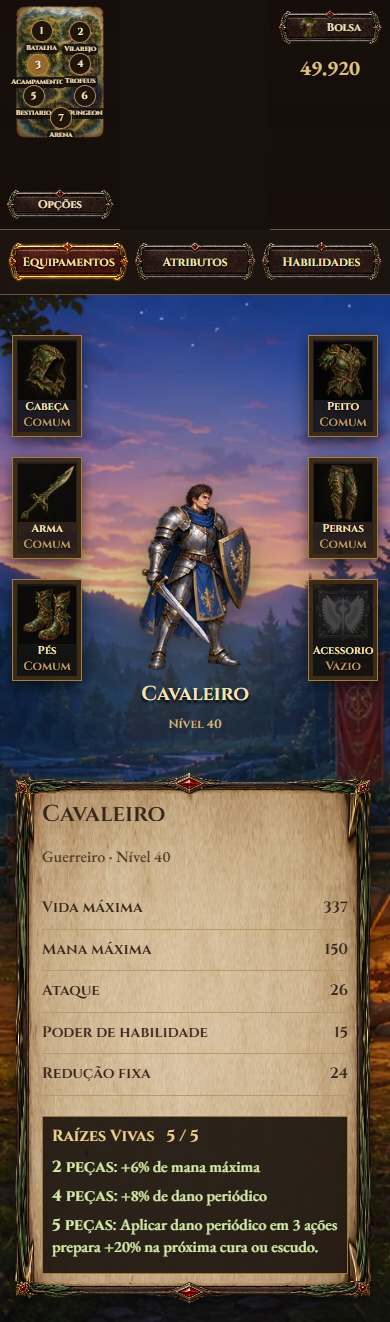
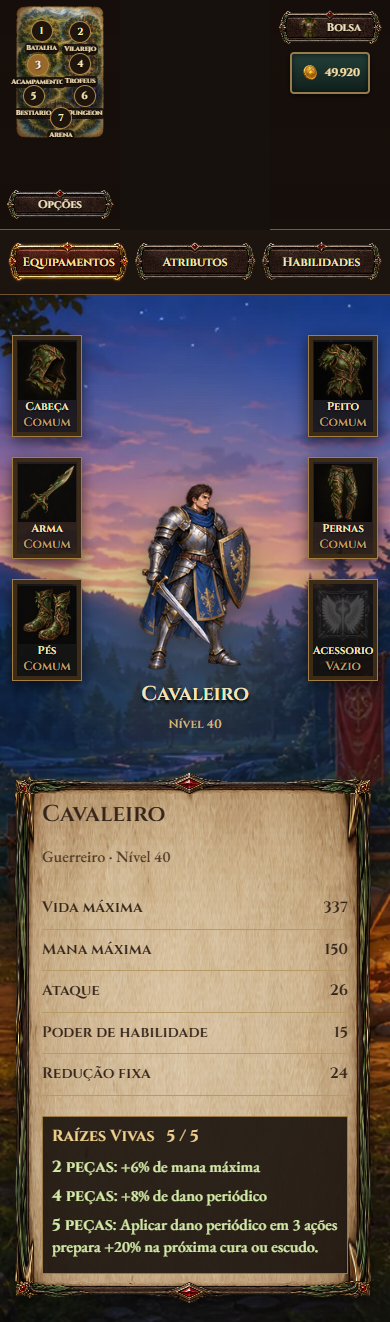
Dá acabamento rústico à pousada e corrige avisos do mapa e saldo

Changed region(s): [[0.7385, 0.031, 0.9538, 0.062]]

diff --git a/assets/js/systems/campaign-hud.js b/assets/js/systems/campaign-hud.js
@@ -14,7 +14,7 @@ const CampaignHUD = (() => {
   const locked = () => isProcessingTurn || isDead || player.hp <= 0;
   const progressionPending = () => levelUpPoints>0||Object.values(allocation).some(value=>Number(value)>0)||needsSubclassChoice();
   const pageTitle = () => currentMode === 'battle' ? currentRegion : currentMode === 'camp' ? 'Personagem' : currentMode === 'village' ? ({artisan:'Oficina',forge:'Oficina',inn:'Pousada',alchemist:'Alquimista',mercenary:'Mercenário'}[villageTab]) : ({bestiary:'Bestiário',trophies:'Sala de troféus',arena:'Portal da arena',dungeon:'Portal da dungeon'}[currentMode] || 'Aventura');
-  const money = () => `<span class="rpg-coins"><img class="rpg-coin-icon" src="assets/visual/hud/icon-coin.webp" alt=""> ${player.coins.toLocaleString('pt-BR')} <small>moedas</small></span>`;
+  const money = () => `<span class="rpg-coins" tabindex="0" aria-label="${player.coins.toLocaleString('pt-BR')} moedas" data-hud-description="${player.coins.toLocaleString('pt-BR')} moedas"><img class="rpg-coin-icon" src="assets/visual/hud/icon-coin.webp" alt=""><span>${player.coins.toLocaleString('pt-BR')}</span></span>`;
   const itemArt = item => {
     if(item?.type !== 'equipment') return getInventoryItemSymbol(item);
     if(item.slot==='accessory')return getInventoryItemSymbol(item);
@@ -120,8 +120,8 @@ const CampaignHUD = (() => {
   function renderVillage(){
     if(villageTab==='artisan'||villageTab==='forge') return serviceNav()+renderWorkshop();
     if(villageTab==='mercenary') return serviceNav()+renderMercenary();
-    if(villageTab==='alchemist') return serviceNav()+`<section class="rpg-village-interior rpg-alchemy"><div class="rpg-service-copy"><h2>Poções e preparados</h2><p>Prepare seus consumíveis antes de voltar à trilha.</p></div><div class="rpg-shop">${renderActionFeedback('village')}${renderAlchemistPanel()}</div></section>`;
-    return serviceNav()+`<section class="rpg-village-interior"><div class="rpg-service-copy"><h2>Descanse, aventureiro</h2><p>Recupere suas forças antes da próxima expedição.</p></div><div class="rpg-inn rpg-paper">${renderActionFeedback('village')}<h2><img class="rpg-inn-title" src="assets/visual/hud/inn-title.webp" alt="Pousada"></h2>${innMeter("Vida",player.hp,getCurrentCaps().maxHp,"hp")}${button(`Recuperar vida · ${getHealCost()} moedas`,'heal','',player.coins<getHealCost()?'disabled':'')}${innMeter("Mana",player.mp,getCurrentCaps().maxMp,"mp")}${button(`Recuperar mana · ${getManaHealCost()} moedas`,'mana','',player.coins<getManaHealCost()?'disabled':'')}</div></section>`;
+    if(villageTab==='alchemist') return serviceNav()+`<section class="rpg-village-interior rpg-alchemy"><div class="rpg-service-copy"><h2>Poções e preparados</h2><p>Prepare seus consumíveis antes de voltar à trilha.</p></div><div class="rpg-shop">${renderActionFeedback('village')}${renderAlchemistPanel({compact:true})}</div></section>`;
+    return serviceNav()+`<section class="rpg-village-interior"><div class="rpg-service-copy"><h2>Descanse, aventureiro</h2><p>Recupere suas forças antes da próxima expedição.</p></div><div class="rpg-inn rpg-paper"><h2><img class="rpg-inn-title" src="assets/visual/hud/inn-title-rustic.webp" alt="Pousada"></h2>${innMeter("Vida",player.hp,getCurrentCaps().maxHp,"hp")}${button(`Recuperar vida · ${getHealCost()} moedas`,'heal','',player.coins<getHealCost()?'disabled':'')}${innMeter("Mana",player.mp,getCurrentCaps().maxMp,"mp")}${button(`Recuperar mana · ${getManaHealCost()} moedas`,'mana','',player.coins<getManaHealCost()?'disabled':'')}</div></section>`;
   }
   function currentCraft(){
     const unlocked=EquipmentSystem.unlockedRegions(player);

diff --git a/assets/styles/campaign-hud.css b/assets/styles/campaign-hud.css
@@ -400,5 +400,18 @@ body.rpg-campaign::before{content:"";position:fixed;inset:0;background:#080a08db
 .rpg-campaign #campaignHud[data-mode=village]:is([data-service=artisan],[data-service=forge]) #rpgMain{background:#1b100b url('../visual/hud/forge.webp') center/cover fixed;min-height:100dvh}
 .rpg-campaign #campaignHud .rpg-workshop{background:none;min-height:690px}
 .rpg-campaign #campaignHud .rpg-anvil>img{flex:0 0 280px;width:100%;height:280px;max-width:280px;object-fit:contain}
-.rpg-campaign .region-map-boss-btn[data-tooltip]:hover::after{min-width:0;width:180px;font-size:13px}
 #rpgActionTooltip,#rpgActionTooltip *{font-family:'RPG Leitura',Georgia,serif!important;font-weight:550!important;font-variant:normal;text-transform:none!important;letter-spacing:0}
+.rpg-campaign #campaignHud #rpgAccount .rpg-coins{display:flex;align-items:center;justify-content:center;gap:5px;box-sizing:border-box;max-width:190px;padding:9px 8px;background:linear-gradient(#244039,#101f1b);border:2px solid #967b4d;border-radius:4px;box-shadow:inset 0 1px 6px #0009,0 2px 5px #0008;color:#ffe2a6;font-size:clamp(11px,1.3vw,20px);cursor:help;outline-offset:3px}
+.rpg-campaign #campaignHud .rpg-coins img{margin:0!important;flex-shrink:0}
+.rpg-campaign .region-map-boss-btn[data-tooltip]:is(:hover,:focus-visible)::after,.rpg-campaign .region-map-boss-btn[data-tooltip]:is(:hover,:focus-visible)::before{display:none!important;content:none!important}
+.rpg-campaign .rpg-inn-meter>i{background:repeating-linear-gradient(90deg,#0001 0 2px,transparent 2px 9px),linear-gradient(#a74637,#67251e);box-shadow:inset 0 2px 5px #0009,inset 0 -2px 3px #0007}
+.rpg-campaign .rpg-inn-meter.mp>i{background:repeating-linear-gradient(90deg,#0001 0 2px,transparent 2px 9px),linear-gradient(#467c91,#254656)}
+.rpg-campaign .rpg-inn-meter>span{color:#f3e2bf;font-size:17px;text-shadow:0 2px 3px #000}
+#rpgActionTooltip[data-kind=boss]{width:180px;font-size:16px}
+#rpgActionTooltip[data-kind=balance]{max-width:180px}
+.rpg-campaign .rpg-inn-meter{height:40px;padding:3px;border:3px ridge #947348;border-image:none;border-radius:7px;outline:1px solid #37271a;background:repeating-linear-gradient(5deg,#342217 0 3px,#493222 4px 6px,#2b1d13 7px 10px);box-shadow:0 0 0 1px #b29565,0 3px 5px #0008,inset 0 1px 3px #000;overflow:hidden}
+.rpg-campaign .rpg-inn-meter>i{border-radius:2px}
+.rpg-campaign .rpg-inn-meter>span{inset:0}
+.rpg-campaign .rpg-inn-meter::before,.rpg-campaign .rpg-inn-meter::after{content:'';position:absolute;z-index:2;top:50%;transform:translateY(-50%);width:5px;height:5px;border-radius:50%;border:1px solid #b39a6a;background:radial-gradient(at 30% 25%,#b2a17b,#292219 75%);box-shadow:0 1px 2px #000;pointer-events:none}
+.rpg-campaign .rpg-inn-meter::before{left:0}.rpg-campaign .rpg-inn-meter::after{right:0}
+.rpg-campaign .rpg-inn>h2{width:100%}

diff --git a/assets/js/game.js b/assets/js/game.js
@@ -4359,8 +4359,8 @@ function getEnemyStatusEffects(targetEnemy){
   return effects;
 }
 
-function renderAlchemistPanel(){
-  return `<div class="inventory-item"><div class="panel-header"><strong>Alquimista</strong><span class="coin-badge">${player.coins} moedas</span></div><span class="lock-note">Misturas raras e reforcos temporarios para a aventura.</span><div class="inventory-list">${Object.entries(consumableCatalog).map(([id, item]) => getInventoryItemCardMarkup({ id, type: "consumable", name: item.name }, item.description, `<div class="button-row"><button onclick="buyConsumable('${id}')">Comprar (${item.price} moedas)</button></div>`, true)).join("")}</div></div>`;
+function renderAlchemistPanel({compact = false} = {}){
+  return `<div class="inventory-item"><div class="panel-header"><strong>Alquimista</strong>${compact?'':`<span class="coin-badge">${player.coins} moedas</span>`}</div><span class="lock-note">Misturas raras e reforcos temporarios para a aventura.</span><div class="inventory-list">${Object.entries(consumableCatalog).map(([id, item]) => getInventoryItemCardMarkup({ id, type: "consumable", name: item.name }, item.description, `<div class="button-row"><button onclick="buyConsumable('${id}')">Comprar (${item.price}${compact?' <img class="rpg-coin-icon" src="assets/visual/hud/icon-coin.webp" alt="moedas">':' moedas'})</button></div>`, true)).join("")}</div></div>`;
 }
 
 function renderArtisanPanel(){ return EquipmentSystem.renderArtisan(); }
@@ -5316,7 +5316,6 @@ function healAtVillage(){
   player.coins -= cost;
   player.hp = maxHp;
   displayState.playerHp = player.hp;
-  triggerActionFeedback("village", `Vida restaurada por ${cost} moedas.`, "success");
   log(`Voce descansou no vilarejo e recuperou toda a vida por ${cost} moedas.`);
   updateUI();
 }
@@ -5336,7 +5335,6 @@ function restoreManaAtVillage(){
   player.coins -= cost;
   player.mp = maxMp;
   displayState.playerMp = player.mp;
-  triggerActionFeedback("village", `Mana restaurada por ${cost} moedas.`, "success");
   log(`Voce descansou a mente no vilarejo e recuperou toda a mana por ${cost} moedas.`);
   updateUI();
 }

diff --git a/assets/js/systems/campaign-details.js b/assets/js/systems/campaign-details.js
@@ -12,8 +12,8 @@
  const tip=document.createElement('div');tip.id='rpgActionTooltip';tip.role='tooltip';tip.hidden=true;document.body.append(tip);
  let owner=null;
  function hide(){if(owner){owner.removeAttribute('aria-describedby');owner=null;}tip.hidden=true;}
- function show(event){const b=event.target.closest('[data-hud-description],[data-hud="flee"]');if(!b){hide();return;}owner=b;tip.textContent=b.dataset.hudDescription||b.dataset.tooltip;currency(tip);tip.hidden=false;b.setAttribute('aria-describedby',tip.id);
-  const r=b.getBoundingClientRect(),t=tip.getBoundingClientRect();tip.style.left=Math.max(8,Math.min(innerWidth-t.width-8,r.left+r.width/2-t.width/2))+'px';tip.style.top=Math.max(8,r.top-t.height-12)+'px';
+ function show(event){const b=event.target.closest('[data-hud-description],[data-hud="flee"],.region-map-boss-btn');if(!b){hide();return;}owner=b;tip.dataset.kind=b.matches('.region-map-boss-btn')?'boss':b.matches('.rpg-coins')?'balance':'action';tip.textContent=b.dataset.hudDescription||b.dataset.tooltip;currency(tip);tip.hidden=false;b.setAttribute('aria-describedby',tip.id);
+  const r=b.getBoundingClientRect(),t=tip.getBoundingClientRect(),side=b.matches('.region-map-boss-btn,.rpg-coins');tip.style.left=Math.max(8,Math.min(innerWidth-t.width-8,side?r.left-t.width-12:r.left+r.width/2-t.width/2))+'px';tip.style.top=Math.max(8,Math.min(innerHeight-t.height-8,side?r.top+(r.height-t.height)/2:r.top-t.height-12))+'px';
  }
  document.addEventListener('mouseover',show);document.addEventListener('focusin',show);
  document.addEventListener('mouseout',e=>{if(owner&&!owner.contains(e.relatedTarget))hide();});

diff --git a/index.html b/index.html
@@ -8,10 +8,10 @@
 <link rel="stylesheet" href="assets/styles/equipment.css?v=20261028" />
 <link rel="stylesheet" href="assets/styles/dungeon.css" />
 <link rel="preload" href="assets/visual/fonts/cinzel-variable.ttf" as="font" type="font/ttf" crossorigin />
-<link rel="stylesheet" href="assets/styles/campaign-hud.css?v=20261029-details" />
+<link rel="stylesheet" href="assets/styles/campaign-hud.css?v=20261030-rustic" />
 <link rel="stylesheet" href="assets/styles/campaign-typography.css?v=20261029-centered" />
 <link rel="stylesheet" href="assets/styles/campaign-reading.css?v=20261029-arsenal" />
-<link rel="stylesheet" href="assets/styles/character-motion.css?v=20261029-details" />
+<link rel="stylesheet" href="assets/styles/character-motion.css?v=20261030-rustic" />
 </head>
 <body class="rpg-campaign">
 <div class="container">
@@ -61,9 +61,9 @@
 <script src="assets/js/systems/achievement-system.js?v=20261028"></script>
 <script src="assets/js/data/hero-art-layout.js?v=20261029-motion"></script>
 <script src="assets/js/systems/character-motion.js?v=20261029-motion"></script>
-<script src="assets/js/game.js?v=20261029-details"></script>
-<script src="assets/js/systems/campaign-hud.js?v=20261029-details"></script>
-<script src="assets/js/systems/campaign-details.js?v=20261029"></script>
+<script src="assets/js/game.js?v=20261030-rustic"></script>
+<script src="assets/js/systems/campaign-hud.js?v=20261030-rustic"></script>
+<script src="assets/js/systems/campaign-details.js?v=20261030-rustic"></script>
 <script src="assets/js/systems/dungeon-system.js"></script>
 </body>
 </html>

diff --git a/docs/hud/implementacao-rpg.md b/docs/hud/implementacao-rpg.md
@@ -122,3 +122,8 @@ Os rastros das criaturas restantes aparecem junto ao selo do chefe ao passar o m
 As habilidades exibem suas descrições em um aviso flutuante ao passar o mouse ou focar pelo teclado. A faixa inferior foi removida. O aviso do chefe no mapa apenas orienta completar o rastro. A moeda pintada é compartilhada pelos saldos, custos, ingredientes, pagamentos e registros da campanha. A pousada usa barras com vida/mana e números dentro, além de um letreiro desenhado. O acampamento tem menos escurecimento e a luz do personagem ocupa toda a área, sem borda abrupta. O cenário do ferreiro fica na área principal com escala presa à janela, e os itens têm a mesma altura de exibição ao fabricar e aprimorar.
 
 As duas novas artes foram geradas com a ferramenta integrada image_gen; saídas em `assets/visual/hud/icon-coin.webp` e `inn-title.webp`, e prompts/origens em `docs/hud/artes/prompts-detalhes.json`. A suíte `docs/qa/hud/details.cjs` verifica os avisos, ícones, recuperação da pousada, cenário do acampamento e 30 seleções de peças em três larguras.
+
+
+## Pousada rústica e saldo contextual
+
+O novo letreiro usa madeira gasta e ferro escurecido, com arte em `assets/visual/hud/inn-title-rustic.webp`. Foi gerado pela ferramenta integrada image_gen; prompt e origem estão em `docs/hud/artes/pousada-rustica.json`. As barras têm moldura de madeira, rebites e preenchimento em tons apagados. Recuperar vida/mana atualiza as barras e o saldo sem o aviso de sucesso redundante; o histórico continua registrando a ação. O saldo lateral usa um painel verde escuro, apenas ícone e valor, com quantidade completa no aviso ao passar o mouse ou focar pelo teclado. O alquimista não repete o saldo; os preços usam o ícone. O aviso do chefe é uma camada fixa à esquerda do botão, sem criar largura ou rolagem na página. A suíte `docs/qa/hud/rustic.cjs` verifica os fluxos em três larguras e a estabilidade da posição do mapa.
